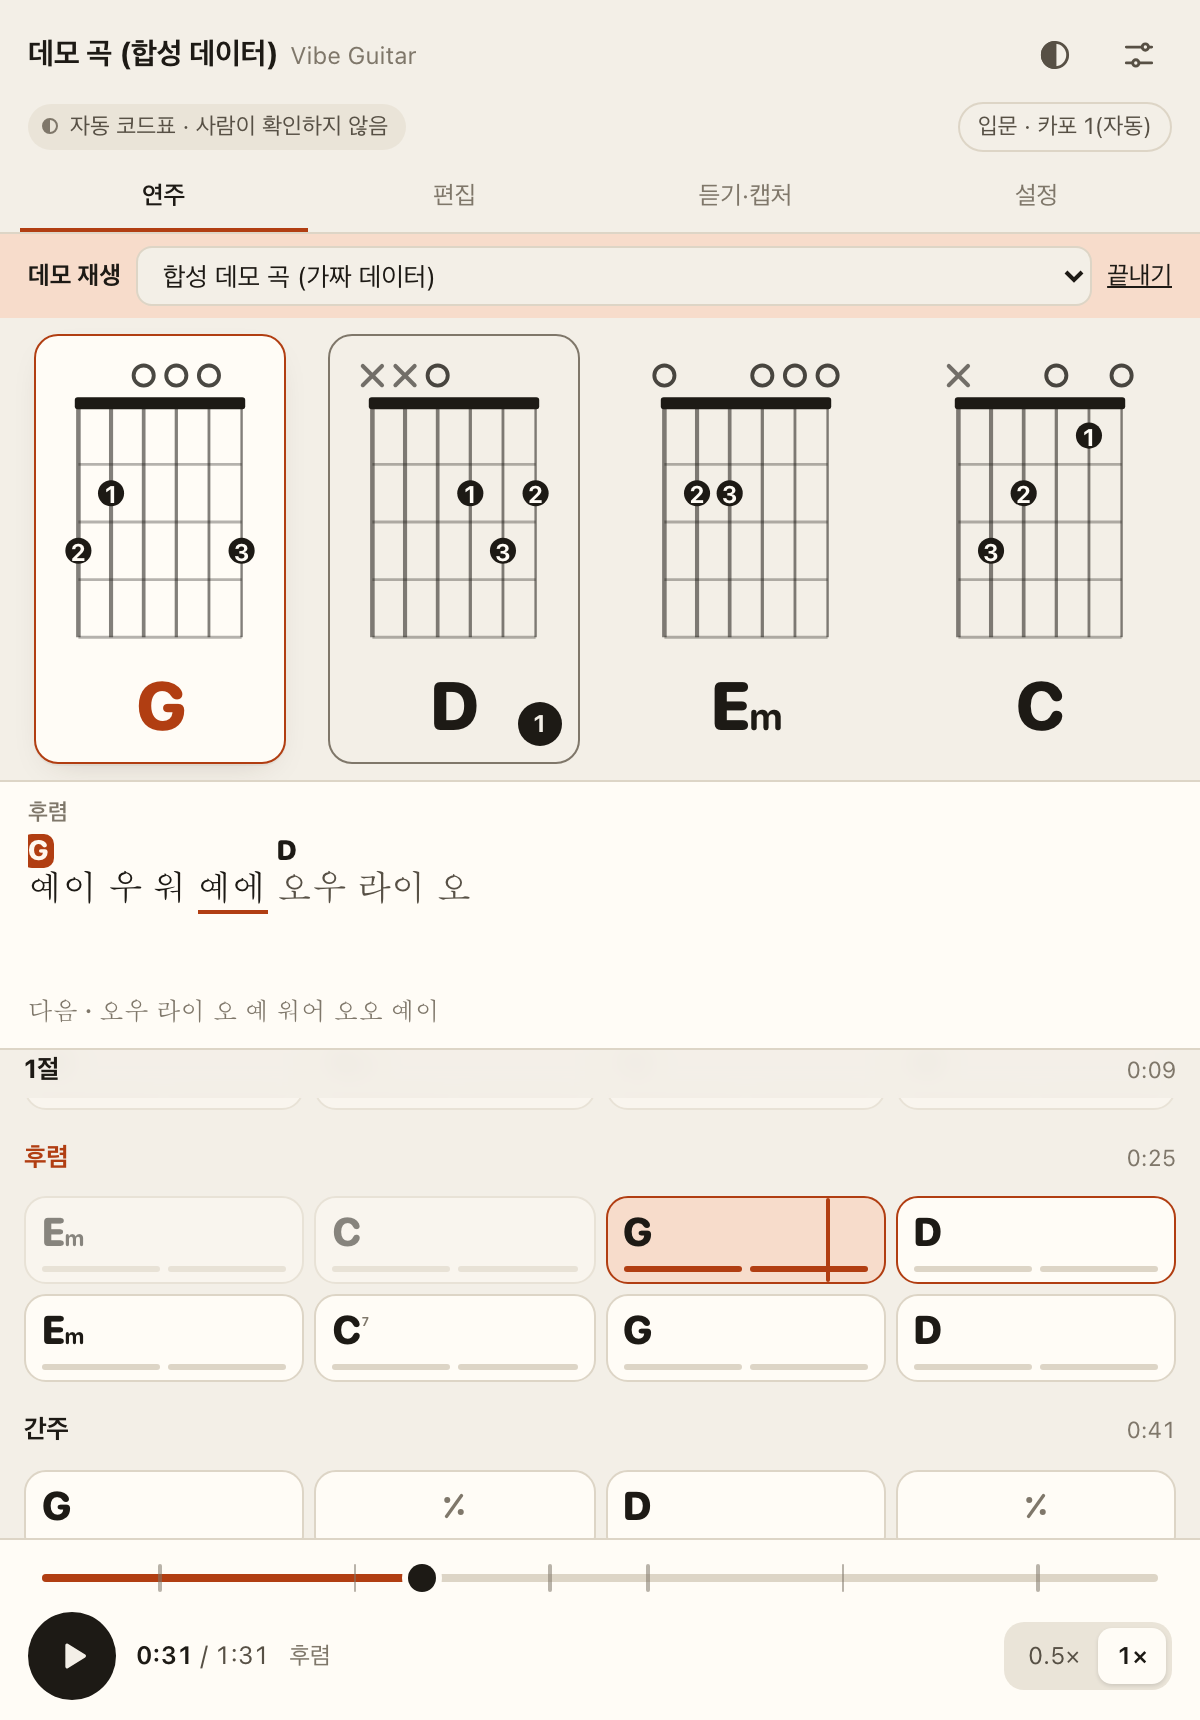
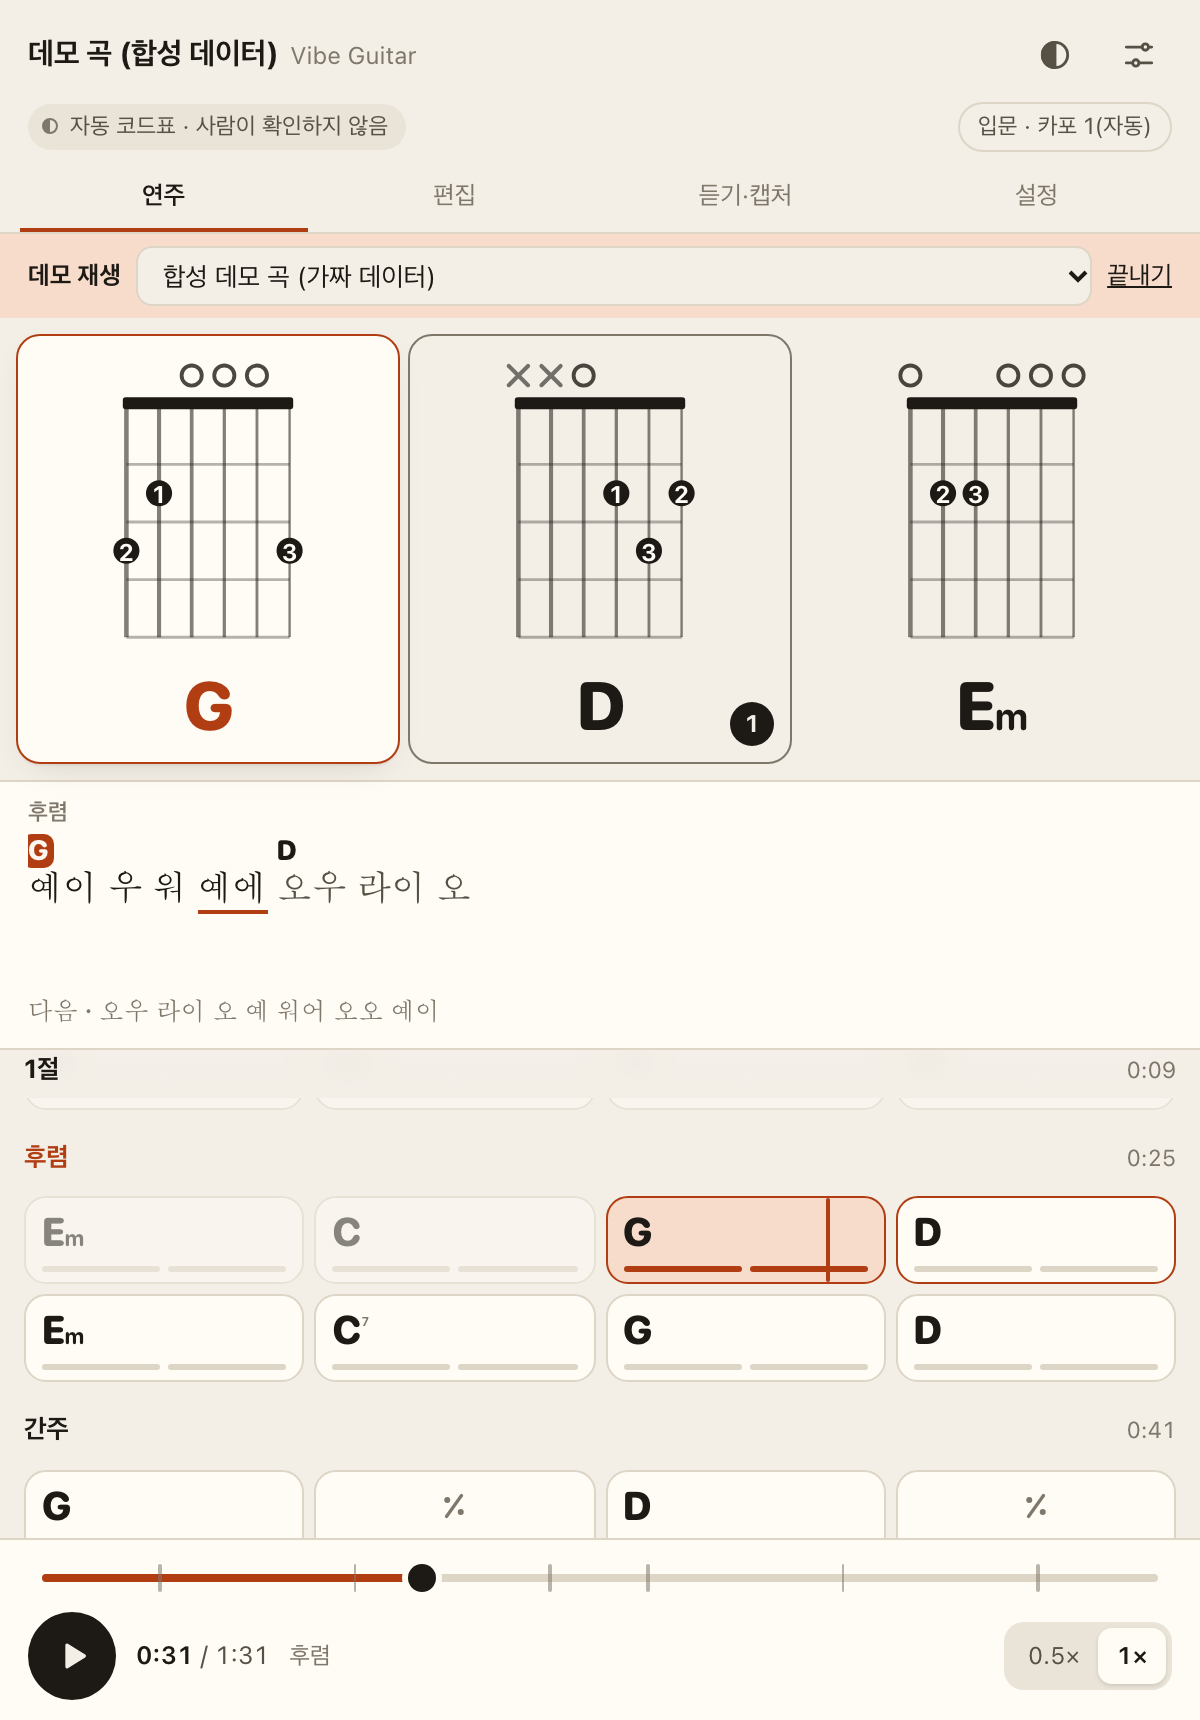
Show only the current, next and following chord shapes; settings grid at play size
The play strip had every shape of the song in one sideways-scrolling row, which got
confusing past four chords. It now has three fixed slots: the sounding shape (or,
between chords, the coming one), the next change and the one after it, skipping rests
and repeats of the same shape and stopping at a coverage gap. The countdown badge sits
on the slot that holds the next event. The diagram box reserves the song's tallest
shape so the lane below does not jump.

Settings -> 이 곡에 나오는 코드 draws every shape at 120 px, the same as the play view.

diff --git a/src/extension/sidepanel/play.ts b/src/extension/sidepanel/play.ts
@@ -4,8 +4,8 @@
  * touches the DOM when something changed.
  */
 import { bigBeatSeconds } from '../../music/meter';
-import { frameAt, type PlayModel } from '../../play/model';
-import { escapeHtml, renderShapeDiagram } from './diagram';
+import { frameAt, upcomingShapes, type PlayModel } from '../../play/model';
+import { escapeHtml, renderShapeDiagram, shapeDiagramHeight } from './diagram';
 import { ScrubState } from './scrub';
 
 export interface PlayHost {
@@ -80,13 +80,12 @@ const $ = (id: string): HTMLElement => {
 export class PlayScreen {
   private m: PlayModel | null = null;
   private lookBars = 1;
-  private stripEls = new Map<string, HTMLElement>();
+  private slots: HTMLElement[] = [];
   private barEls: HTMLElement[] = [];
   private secEls: HTMLElement[] = [];
-  private last = { bar: -2, event: -2, soon: '', line: -2, section: -2, cd: -1 };
+  private last = { bar: -2, up: '', soon: '', line: -2, section: -2, cd: -1 };
   private readonly fol;
   private readonly dias = $('dias');
-  private readonly diasWrap = $('dias-wrap');
   private readonly lane = $('lane');
   private readonly lyCur = $('ly-cur');
   private readonly seek = $('seek') as HTMLInputElement;
@@ -115,7 +114,6 @@ export class PlayScreen {
     }
     addEventListener('resize', () => {
       this.last.line = -2;
-      this.layoutStrip();
     });
   }
 
@@ -130,7 +128,7 @@ export class PlayScreen {
 
   setModel(m: PlayModel | null): void {
     this.m = m;
-    this.last = { bar: -2, event: -2, soon: 'x', line: -2, section: -2, cd: -1 };
+    this.last = { bar: -2, up: 'x', soon: 'x', line: -2, section: -2, cd: -1 };
     for (const id of ['dias-wrap', 'lane-wrap', 'transport']) $(id).hidden = !m;
     $('pin').hidden = !m?.lyrics;
     if (!m) {
@@ -148,47 +146,29 @@ export class PlayScreen {
       .join('');
   }
 
+  /** Three fixed slots: the current shape, the next one and the one after it. */
   private buildStrip(m: PlayModel): void {
-    const firstOf = new Map<string, number>();
-    m.stripKeys.forEach((k, i) => {
-      if (k && !firstOf.has(k)) firstOf.set(k, i);
+    // Reserve the tallest diagram of the song so names and the lane below stay put as shapes change.
+    const tallest = Math.max(128, ...m.strip.map((it) => (it.event.voicing ? shapeDiagramHeight(it.event.voicing) : 0)));
+    this.dias.style.setProperty('--fig-h', String(tallest));
+    this.dias.innerHTML = '<li class="empty"></li>'.repeat(3);
+    this.slots = [...this.dias.querySelectorAll<HTMLElement>('li')];
+  }
+
+  private fillStrip(m: PlayModel, up: number[]): void {
+    this.slots.forEach((li, k) => {
+      const ev = up[k];
+      li.className = ev === undefined ? 'empty' : '';
+      if (ev === undefined) {
+        li.innerHTML = '<div class="fig"></div>';
+        return;
+      }
+      const e = m.arrangement.events[ev];
+      const lab = m.labels[ev];
+      const dia = e.voicing ? renderShapeDiagram(e.voicing, 120) : '<div class="nodia">운지 없음</div>';
+      const snd = lab.sounding !== lab.name ? `<span class="sd snd">${escapeHtml(lab.sounding)}</span>` : '';
+      li.innerHTML = `<div class="fig">${dia}</div><span class="nm">${chordHTML(lab.name)}</span>${snd}<span class="cd" aria-hidden="true"></span>`;
     });
-    this.dias.innerHTML = m.strip
-      .map((it) => {
-        const lab = m.labels[firstOf.get(it.key)!];
-        const dia = it.event.voicing ? renderShapeDiagram(it.event.voicing, 120) : '<div class="nodia">운지 없음</div>';
-        const snd = lab.sounding !== lab.name ? `<span class="sd snd">${escapeHtml(lab.sounding)}</span>` : '';
-        return `<li data-key="${escapeHtml(it.key)}">${dia}<span class="nm">${chordHTML(lab.name)}</span>${snd}<span class="cd" aria-hidden="true"></span></li>`;
-      })
-      .join('');
-    this.stripEls = new Map([...this.dias.querySelectorAll<HTMLElement>('li')].map((li) => [li.dataset.key!, li]));
-    this.layoutStrip();
-  }
-
-  private layoutStrip(): void {
-    const c = this.diasWrap;
-    c.classList.toggle('scrolls', c.scrollWidth > c.clientWidth + 1);
-  }
-
-  /** Keep the current shape (and the next one, if both fit) in view; if not both, the next one. */
-  private revealStrip(): void {
-    const c = this.diasWrap;
-    if (c.scrollWidth <= c.clientWidth + 1) return;
-    const now = this.dias.querySelector<HTMLElement>('li.now');
-    const nx = this.dias.querySelector<HTMLElement>('li.nx');
-    const items = [now, nx].filter((x): x is HTMLElement => !!x);
-    if (!items.length) return;
-    let l = Math.min(...items.map((e) => e.offsetLeft));
-    let r = Math.max(...items.map((e) => e.offsetLeft + e.offsetWidth));
-    if (r - l > c.clientWidth - 16) {
-      const f = nx ?? now!;
-      l = f.offsetLeft;
-      r = l + f.offsetWidth;
-    }
-    if (l < c.scrollLeft + 8 || r > c.scrollLeft + c.clientWidth - 8) {
-      const to = r - l <= c.clientWidth - 16 && r > c.scrollLeft + c.clientWidth - 8 ? r - c.clientWidth + 8 : l - 8;
-      c.scrollTo({ left: Math.max(0, to), behavior: reduceMotion() ? 'auto' : 'smooth' });
-    }
   }
 
   private segHTML(m: PlayModel, ev: number, weight: number, repeat: boolean): string {
@@ -306,25 +286,27 @@ export class PlayScreen {
       }
     }
 
-    const nowKey = f.event >= 0 ? m.stripKeys[f.event] : '';
-    if (f.event !== this.last.event) {
-      for (const li of this.stripEls.values()) li.classList.remove('now');
-      if (nowKey) this.stripEls.get(nowKey)?.classList.add('now');
-      this.last.event = f.event;
-      this.revealStrip();
+    const up = upcomingShapes(m, f);
+    const upKey = `${f.event}|${up.join(',')}`;
+    if (upKey !== this.last.up) {
+      this.fillStrip(m, up);
+      this.slots[0]?.classList.toggle('now', f.event >= 0 && up[0] === f.event);
+      this.last.up = upKey;
+      this.last.soon = 'x';
+      this.last.cd = -1;
     }
     const lookBig = Math.max(1, Math.round(this.lookBars * m.big.bigPerBar));
     const soon = f.next >= 0 && f.bigLeft > 0 && f.bigLeft <= lookBig;
     const soonKey = soon ? `${f.event}>${f.next}` : '';
     if (soonKey !== this.last.soon) {
-      for (const li of this.stripEls.values()) li.classList.remove('nx');
+      for (const li of this.slots) li.classList.remove('nx');
       for (const b of this.barEls) b.classList.remove('soon');
       if (soon) {
-        const nk = m.stripKeys[f.next];
-        if (nk && nk !== nowKey) this.stripEls.get(nk)?.classList.add('nx');
+        // The countdown sits on the slot that shows the next event; none when it keeps the same shape.
+        const k = up.indexOf(f.next);
+        if (k >= 0) this.slots[k].classList.add('nx');
         const nb = m.bars.findIndex((b) => m.arrangement.events[f.next].startSec + 0.05 >= b.startSec && m.arrangement.events[f.next].startSec + 0.05 < b.endSec);
         if (nb >= 0) this.barEls[nb]?.classList.add('soon');
-        this.revealStrip();
       }
       this.last.soon = soonKey;
     }

diff --git a/tests/play-model.test.ts b/tests/play-model.test.ts
@@ -1,10 +1,10 @@
 import { describe, expect, it } from 'vitest';
 import { demoChart, demoLyrics, DemoClock } from '../src/play/demo';
-import { buildPlayModel, frameAt } from '../src/play/model';
+import { buildPlayModel, frameAt, upcomingShapes, type PlayModel } from '../src/play/model';
 import { simpleShape } from '../src/play/lane';
 import { normalizeSettings } from '../src/extension/storage';
 import { voicingsForChord, parseChord } from '../src/arrange';
-import { renderShapeDiagram } from '../src/extension/sidepanel/diagram';
+import { renderShapeDiagram, shapeDiagramHeight } from '../src/extension/sidepanel/diagram';
 
 describe('play model on the synthetic demo song', () => {
   const chart = demoChart();
@@ -109,6 +109,21 @@ describe('play-view diagram', () => {
     const f = voicingsForChord(parseChord('F')).find((v) => v.frets.join() === [1, 3, 3, 2, 1, 1].join())!;
     expect(renderShapeDiagram(f)).toContain('d-barre');
   });
+
+  it('reports the viewBox height the strip reserves for the tallest shape', () => {
+    const all = ['C', 'G', 'D', 'Em', 'Am', 'F', 'Bm', 'B', 'F#m', 'Bb', 'Gm', 'C#m', 'Ab', 'Eb', 'Fmaj7'].flatMap((n) => voicingsForChord(parseChord(n)));
+    const heights = new Set<number>();
+    for (const v of all) {
+      const h = shapeDiagramHeight(v);
+      expect(renderShapeDiagram(v)).toContain(`viewBox="0 0 100 ${h}"`);
+      heights.add(h);
+    }
+    expect([...heights]).toEqual([128]);
+    // a stretch over five frets gets the fifth row
+    const wide = { ...all[0], frets: [null, 5, 7, 7, 9, 5] };
+    expect(shapeDiagramHeight(wide)).toBe(152);
+    expect(renderShapeDiagram(wide)).toContain('viewBox="0 0 100 152"');
+  });
 });
 
 describe('sections without lyrics', () => {
@@ -140,5 +155,41 @@ describe('sections from lyrics', () => {
       line('ch a'), line('ch b'),
     ];
     expect(buildSections(bars, lines).map((s) => s.name)).toEqual(['인트로', '1절', '후렴', '간주', '2절', '후렴', '아웃트로']);
+  });
+});
+
+describe('three-up shape strip', () => {
+  // events: G, G (same shape), rest, D, Em, C | coverage gap | A
+  const spans: [number, number, string][] = [[0, 2, 'G'], [2, 4, 'G'], [4, 5, ''], [5, 7, 'D'], [7, 9, 'Em'], [9, 11, 'C'], [20, 22, 'A']];
+  const m = {
+    arrangement: { events: spans.map(([startSec, endSec, k]) => ({ startSec, endSec, rest: !k })) },
+    stripKeys: spans.map(([, , k]) => (k ? `${k}|v` : '')),
+  } as unknown as Pick<PlayModel, 'arrangement' | 'stripKeys'>;
+
+  it('shows the current shape and the next two changes, skipping rests and repeats', () => {
+    expect(upcomingShapes(m, { event: 0, next: 1 })).toEqual([0, 3, 4]);
+    expect(upcomingShapes(m, { event: 1, next: 3 })).toEqual([1, 3, 4]);
+    expect(upcomingShapes(m, { event: 3, next: 4 })).toEqual([3, 4, 5]);
+  });
+
+  it('starts from the coming chord during a rest and stops at a coverage gap', () => {
+    expect(upcomingShapes(m, { event: -1, next: 3 })).toEqual([3, 4, 5]);
+    expect(upcomingShapes(m, { event: 4, next: 5 })).toEqual([4, 5]);
+    expect(upcomingShapes(m, { event: 5, next: -1 })).toEqual([5]);
+    expect(upcomingShapes(m, { event: -1, next: 6 })).toEqual([6]);
+    expect(upcomingShapes(m, { event: -1, next: -1 })).toEqual([]);
+  });
+
+  it('never shows more than three shapes on the demo song', () => {
+    const d = buildPlayModel(demoChart(), { level: 'novice', capo: 0 }, null);
+    expect(d.strip.length).toBeGreaterThan(3);
+    for (const e of d.arrangement.events) {
+      const f = frameAt(d, e.startSec + 0.05);
+      const up = upcomingShapes(d, f);
+      expect(up.length).toBeLessThanOrEqual(3);
+      if (f.event >= 0) expect(up[0]).toBe(f.event);
+      const keys = up.map((i) => d.stripKeys[i]);
+      keys.slice(1).forEach((k, i) => expect(k).not.toBe(keys[i]));
+    }
   });
 });

diff --git a/src/extension/static/sidepanel.css b/src/extension/static/sidepanel.css
@@ -105,25 +105,24 @@ button.link{color:var(--accent);text-decoration:underline;font-weight:600}
 .dia .d-x{stroke:currentColor;stroke-width:1.7;opacity:.6;stroke-linecap:round}
 .dia .d-fr{fill:currentColor;font:600 9px var(--f-ui);opacity:.7}
 
-/* ---------- chord shape strip (one row, sideways scroll) ---------- */
-.dias{--dia:120px;border-bottom:1px solid var(--line);overflow-x:auto;scrollbar-width:none;background:var(--bg);flex:none;
-  scroll-behavior:smooth;scroll-padding-inline:8px}
-.dias::-webkit-scrollbar{display:none}
-@media (prefers-reduced-motion:reduce){.dias{scroll-behavior:auto}}
-.dias ul{list-style:none;margin:0;padding:8px 8px;display:flex;gap:2px;width:max-content;min-width:100%;justify-content:space-around}
+/* ---------- chord shapes: now, next, the one after ---------- */
+.dias{--dia:120px;border-bottom:1px solid var(--line);background:var(--bg);flex:none}
+.dias ul{list-style:none;margin:0;padding:8px 8px;display:grid;grid-template-columns:repeat(3,minmax(0,1fr));gap:4px}
 .dias li{position:relative;display:flex;flex-direction:column;align-items:center;gap:2px;padding:4px 2px;border-radius:12px;border:1.5px solid transparent;
   min-width:0;transition:background .2s,border-color .2s}
-.dias .dia{width:var(--dia);height:auto}
+.dias li.empty{visibility:hidden}
+/* --fig-h: the tallest diagram of the song (set in play.ts), so names and the lane stay put. */
+.dias .fig{width:min(var(--dia),100%);aspect-ratio:100/var(--fig-h,152);display:flex;align-items:flex-start;justify-content:center}
+.dias .dia{width:100%;height:auto}
 .dias .nm{font-size:clamp(17px,calc(var(--dia) * .34),34px)}
 .dias .sd{font-size:11px;color:var(--ink-3);line-height:1}
-.dias .nodia{width:var(--dia);height:calc(var(--dia) * 1.28);display:grid;place-items:center;color:var(--ink-3);font-size:12px}
+.dias .nodia{width:100%;height:100%;display:grid;place-items:center;color:var(--ink-3);font-size:12px}
 .dias li.now{background:var(--surface);border-color:var(--accent);box-shadow:var(--shadow)}
 .dias li.now .nm{color:var(--accent)}
 .dias li.nx{border-color:var(--ink-3)}
 .dias .cd{position:absolute;bottom:8px;right:8px;min-width:22px;height:22px;padding:0 6px;border-radius:99px;background:var(--ink);color:var(--bg);
   font:700 12px/22px var(--f-ui);text-align:center;font-variant-numeric:tabular-nums;display:none}
 .dias li.nx .cd{display:block}
-.dias.scrolls{mask-image:linear-gradient(90deg,#000 88%,transparent);-webkit-mask-image:linear-gradient(90deg,#000 88%,transparent)}
 
 /* ---------- pinned lyric ---------- */
 .pin{padding:7px 14px 9px;border-bottom:1px solid var(--line);background:var(--surface);flex:none}
@@ -249,10 +248,10 @@ button.link{color:var(--accent);text-decoration:underline;font-weight:600}
 .card input[type=range]{accent-color:var(--accent);padding:0;border:0;background:none}
 textarea{width:100%;resize:vertical}
 .row{display:flex;gap:6px;flex-wrap:wrap;align-items:center;margin:4px 0}
-.grid{display:grid;grid-template-columns:repeat(auto-fill,minmax(100px,1fr));gap:6px;margin-top:8px}
+.grid{display:grid;grid-template-columns:repeat(auto-fill,minmax(132px,1fr));gap:6px;margin-top:8px}
 .grid .cell{text-align:center;border:1px solid var(--line);border-radius:10px;padding:6px 4px;display:flex;flex-direction:column;align-items:center;gap:2px}
-.grid .cell .name{font-weight:700}
-.grid .cell .dia{width:80px;height:auto}
+.grid .cell .name{font-weight:700;font-size:20px}
+.grid .cell .dia{width:min(120px,100%);height:auto}
 .stamp-list{max-height:160px;overflow:auto;padding-left:22px}
 .kv{border-collapse:collapse}
 .kv th{text-align:left;color:var(--ink-3);font-weight:400;padding:2px 10px 2px 0;vertical-align:top}

diff --git a/src/extension/sidepanel/diagram.ts b/src/extension/sidepanel/diagram.ts
@@ -66,19 +66,28 @@ export function renderChordDiagram(v: Voicing, opts: DiagramOptions = {}): strin
  * Play-view diagram (mockup B geometry, viewBox 100 wide): open/muted marks above the nut,
  * finger numbers inside the dots, a rounded bar for barres and "Nfr" for high positions.
  */
-export function renderShapeDiagram(v: Voicing, width = 120): string {
+function diagramRows(v: Voicing): { base: number; rows: number } {
   const fretted = v.frets.filter((f): f is number => f !== null && f > 0);
   const maxF = fretted.length ? Math.max(...fretted) : 0;
   const minF = fretted.length ? Math.min(...fretted) : 0;
   const base = maxF <= 4 ? 1 : minF;
-  const rows = Math.max(4, Math.min(5, maxF - base + 1));
+  return { base, rows: Math.max(4, Math.min(5, maxF - base + 1)) };
+}
+
+/** Height of a shape diagram's viewBox (its width is always 100). */
+export function shapeDiagramHeight(v: Voicing): number {
+  return 26 + diagramRows(v).rows * 24 + 6;
+}
+
+export function renderShapeDiagram(v: Voicing, width = 120): string {
+  const { base, rows } = diagramRows(v);
   const x0 = 16;
   const x1 = 84;
   const y0 = 26;
   const dx = (x1 - x0) / 5;
   const dy = 24;
   const y1 = y0 + rows * dy;
-  const H = y1 + 6;
+  const H = shapeDiagramHeight(v); // = y1 + 6
   const g: string[] = [];
   for (let i = 0; i <= rows; i++) g.push(`<line class="d-fret" x1="${x0}" x2="${x1}" y1="${y0 + i * dy}" y2="${y0 + i * dy}"/>`);
   for (let i = 0; i < 6; i++) g.push(`<line class="d-str" x1="${x0 + i * dx}" x2="${x0 + i * dx}" y1="${y0}" y2="${y1}" stroke-width="${(1.9 - i * 0.18).toFixed(2)}"/>`);

diff --git a/src/play/model.ts b/src/play/model.ts
@@ -172,6 +172,28 @@ export interface Frame {
   nextLine: number;
 }
 
+/**
+ * Event indices for the three-up shape strip: the sounding chord (or, between chords, the one coming
+ * up), then each following change of shape. Rests and shapeless events are skipped, a repeat of the
+ * same shape is not a change, and a coverage gap ends the run (what plays inside it is unknown).
+ */
+export function upcomingShapes(m: Pick<PlayModel, 'arrangement' | 'stripKeys'>, f: Pick<Frame, 'event' | 'next'>, count = 3): number[] {
+  const ev = m.arrangement.events;
+  const start = f.event >= 0 ? f.event : f.next;
+  const out: number[] = [];
+  if (start < 0) return out;
+  let lastKey = '';
+  for (let j = start; j < ev.length && out.length < count; j++) {
+    if (j > start && ev[j - 1].endSec < ev[j].startSec - 1e-6) break;
+    const k = m.stripKeys[j];
+    if (k && k !== lastKey) {
+      out.push(j);
+      lastKey = k;
+    }
+  }
+  return out;
+}
+
 export function frameAt(m: PlayModel, t: number): Frame {
   const ev = m.arrangement.events;
   const i = findEventIndex(ev, t);

diff --git a/src/extension/sidepanel/sidepanel.ts b/src/extension/sidepanel/sidepanel.ts
@@ -398,7 +398,7 @@ function renderStatic(): void {
   else {
     const known = new Set(settings.profile.knownShapes);
     const cells = uniqueVoicings(model.arrangement).map((u) => {
-      const dg = u.voicing ? renderShapeDiagram(u.voicing, 80) : '<div class="muted small">운지 없음</div>';
+      const dg = u.voicing ? renderShapeDiagram(u.voicing, 120) : '<div class="muted small">운지 없음</div>';
       const toggle = u.voicing ? `<label class="small"><input type="checkbox" data-known="${escapeHtml(u.voicing.id)}" ${known.has(u.voicing.id) ? 'checked' : ''}/> 잡을 수 있음</label>` : '';
       return `<div class="cell"><div class="name">${escapeHtml(u.shape)}</div>${dg}${toggle}</div>`;
     });

diff --git a/src/extension/static/sidepanel.html b/src/extension/static/sidepanel.html
@@ -47,7 +47,7 @@
         <button id="empty-demo" class="btn">데모 재생</button>
       </div>
     </div>
-    <section class="dias" id="dias-wrap" aria-label="이 곡에 나오는 코드 모양"><ul id="dias"></ul></section>
+    <section class="dias" id="dias-wrap" aria-label="지금, 다음, 그다음 코드 모양"><ul id="dias"></ul></section>
     <section class="pin" id="pin" aria-label="지금 가사" hidden>
       <div class="pin-head" id="pin-sec"></div>
       <p class="ly" id="ly-cur"></p>

diff --git a/docs/phase0-test-checklist.md b/docs/phase0-test-checklist.md
@@ -97,9 +97,11 @@ Screenshots of the synthetic demo: [docs/screens/](screens/) (`node scripts/scre
 - [ ] Demo without a player: settings sheet → 데모 재생 (or open `sidepanel.html?demo=1` from the extension's
       URL). The synthetic song plays with a simulated clock; 0.5× works; "끝내기" returns to the live player.
       Pick a stored recording in the demo bar: its chart replays (cached lyrics only, no request).
-- [ ] Panel width: at ~400 px the strip scrolls sideways with a fade on the right and keeps the current
-      (and, just before a change, the next) shape in view; at ~600 px all shapes of a typical song fit in one
-      row. Diagrams are 120 px wide. Light and dark (theme button) both readable.
+- [ ] Shape strip: exactly three slots — the current shape (accent border), the next change and the one
+      after it; the countdown badge sits on the next one. Between chords the first slot is the coming chord.
+      Diagrams are 120 px wide (shrinking to fit below ~400 px), and the lane below does not jump when a
+      four-fret shape replaces a five-fret one. Settings → 이 곡에 나오는 코드 shows every shape at the same
+      120 px. Light and dark (theme button) both readable.
 - [ ] Key spelling on a song in a flat key (e.g. Perfect, A♭ major, auto chart): the strip and grid show
       A♭, Fm, D♭, E♭ (capo 0) or G, Em, C, D with sounding A♭… (capo 1) — never G#, D#.
       설정 tab → 분석 정보 shows the estimated key.
